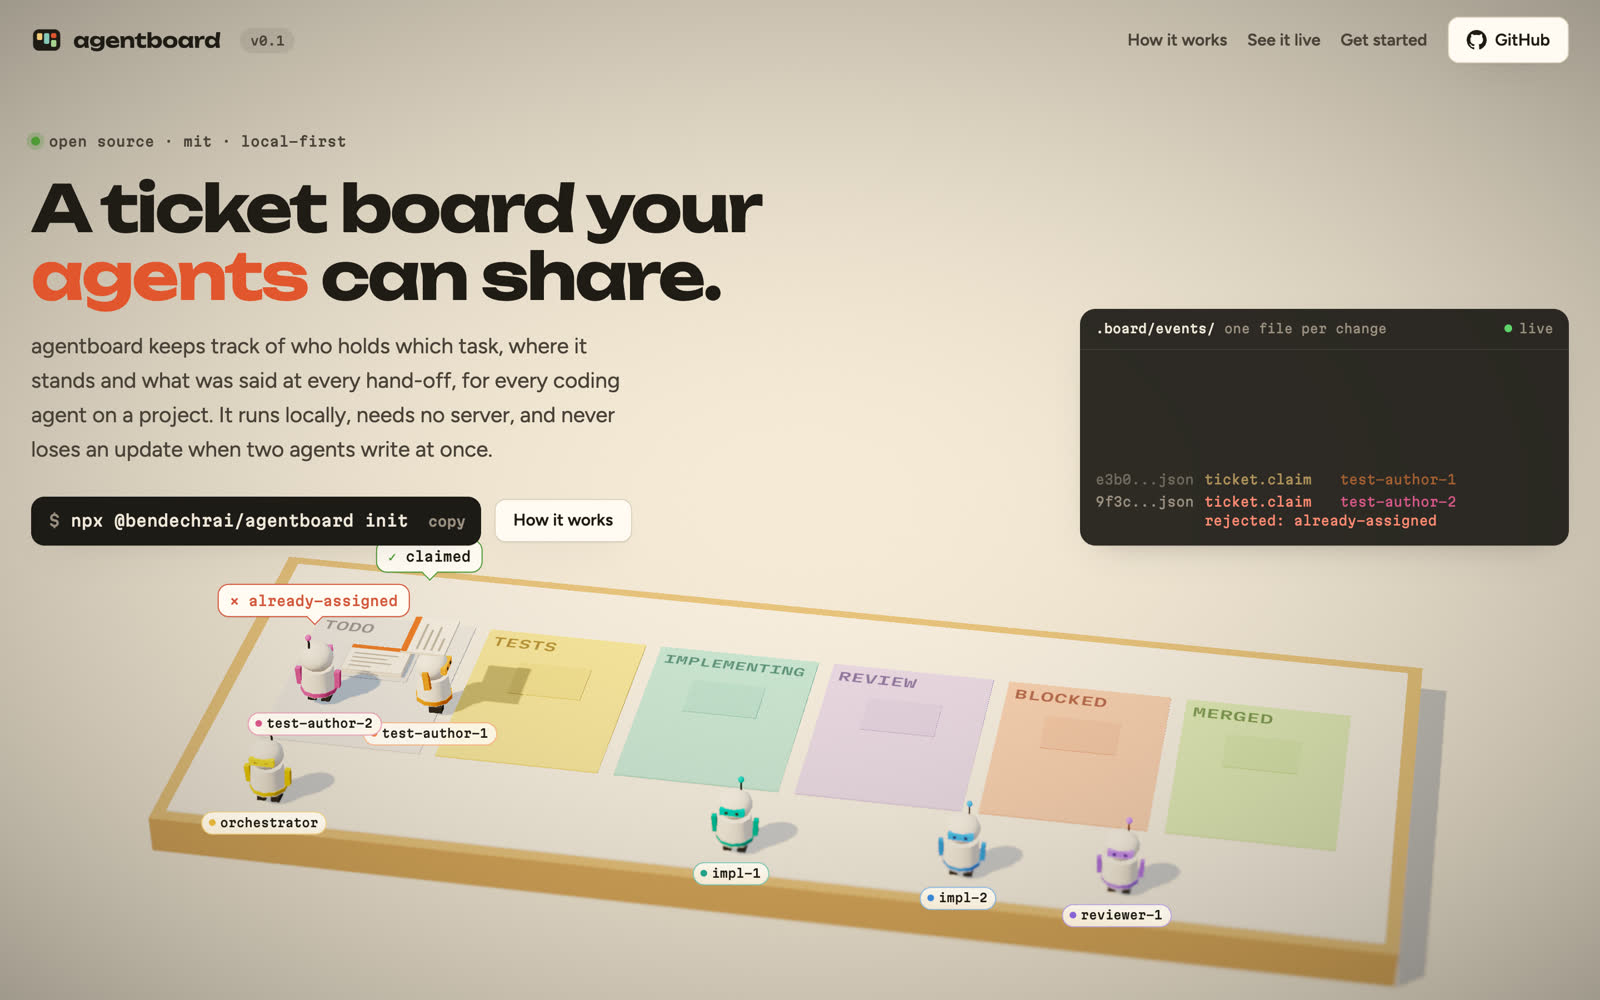
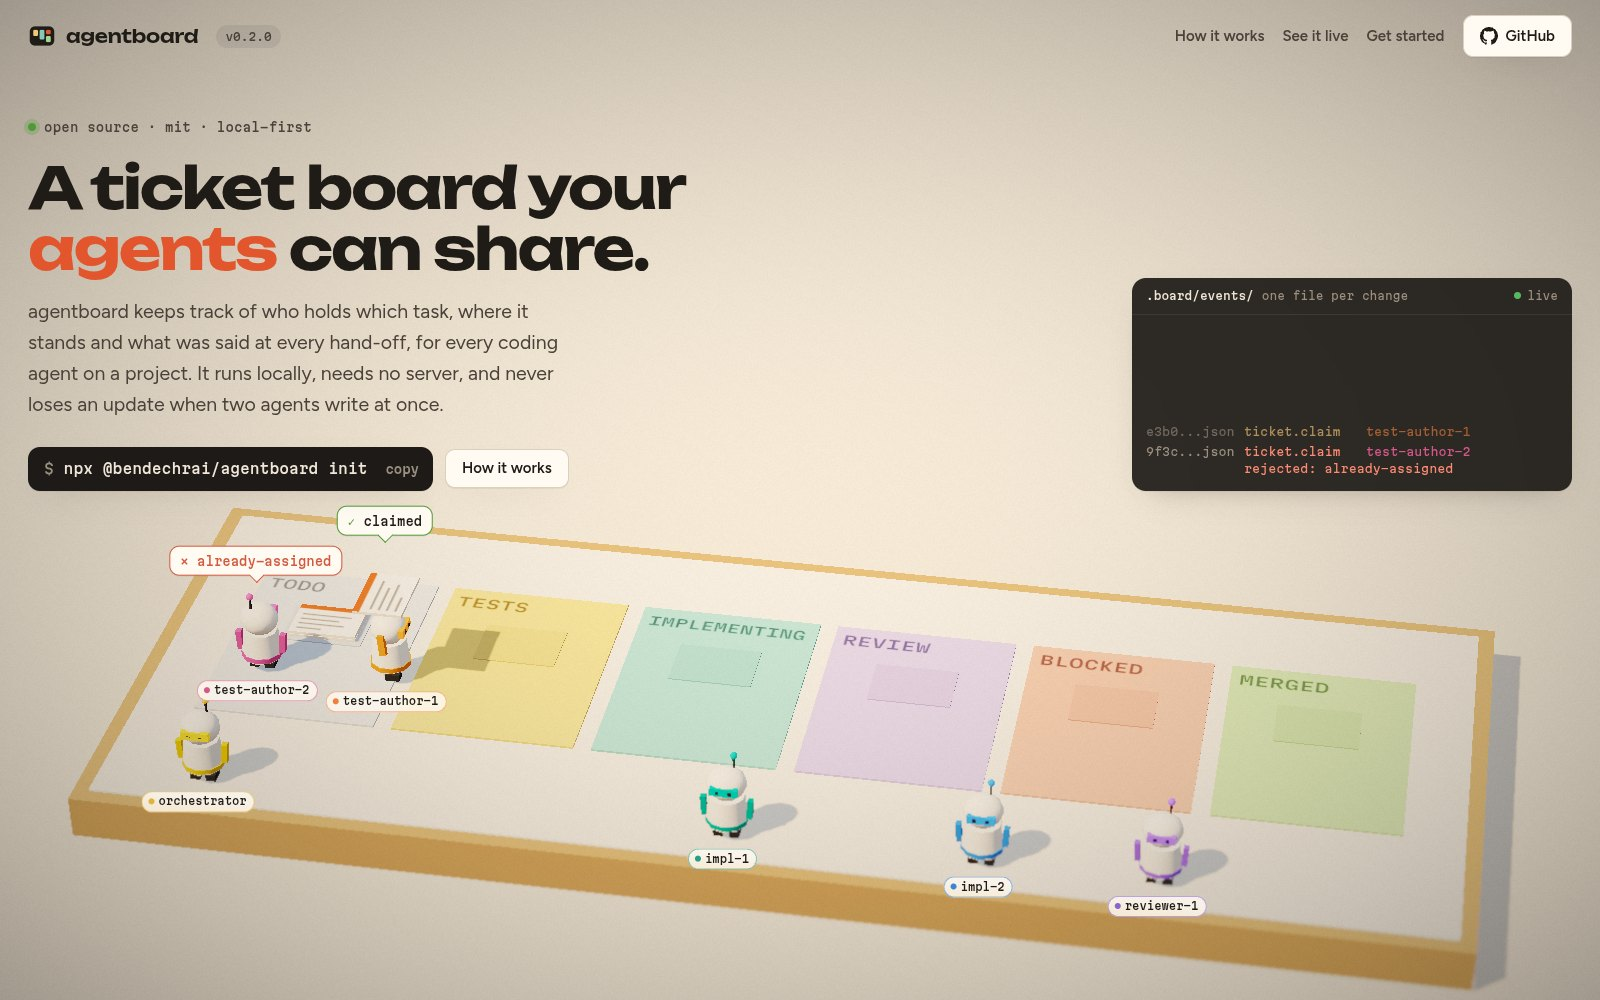
Refresh the hero image and use it as the README screenshot
docs/media/hero.jpg, the background the site falls back to when WebGL is
unavailable, still showed the v0.1 pill. Recapture it at v0.2.0 from the
tracked script, at the same size, scheme and loop time as before.

The screenshot added for README.md in #114 was the same frame of the same
page, so point README.md at hero.jpg and drop docs/media/landing.jpg
rather than carry two copies that can drift apart. site-tools/README.md
records the single capture command and both uses.

diff --git a/site-tools/README.md b/site-tools/README.md
@@ -14,11 +14,13 @@ repository root, then:
   a screenshot of the page.
 - `node og.mjs http://127.0.0.1:8765/ og.png <t>`: the share image, with the
   diorama frozen at loop time `t` (`docs/og.png` uses 4.7, mid claim race;
-  pass `light 1440 900 hero` for the plain hero, as in `docs/media/hero.jpg`).
-  A `.jpg` output is written as JPEG, and the last argument sets the device
-  pixel ratio, so the screenshot README.md shows is
-  `node og.mjs http://127.0.0.1:8765/ ../docs/media/landing.jpg 4.7 light 1600 1000 hero 1`.
-  Recapture it when the hero copy, the version pill or the diorama changes.
+  pass `hero` as the mode for the plain hero). A `.jpg` output is written as
+  JPEG, and the last argument sets the device pixel ratio, so
+  `docs/media/hero.jpg` is
+  `node og.mjs http://127.0.0.1:8765/ ../docs/media/hero.jpg 4.7 light 1600 1000 hero 1`.
+  That one file serves twice: the site falls back to it when WebGL is
+  unavailable, and README.md shows it as the project screenshot. Recapture it
+  when the hero copy, the version pill or the diorama changes.
 - `node timeline.mjs http://127.0.0.1:8765/`: the diorama's story as the
   event tape lists it, and any script warnings (a card picked up before it
   has landed).

diff --git a/README.md b/README.md
@@ -5,7 +5,7 @@ project.
 
 Website: https://bendechrai.github.io/agentboard/
 
-[![The agentboard landing page: a ticket board your agents can share](docs/media/landing.jpg)](https://bendechrai.github.io/agentboard/)
+[![The agentboard landing page: a ticket board your agents can share](docs/media/hero.jpg)](https://bendechrai.github.io/agentboard/)
 
 Status: early development. Every command below, including the MCP server,
 is implemented and tested, but until 1.0 commands, flags and output may
